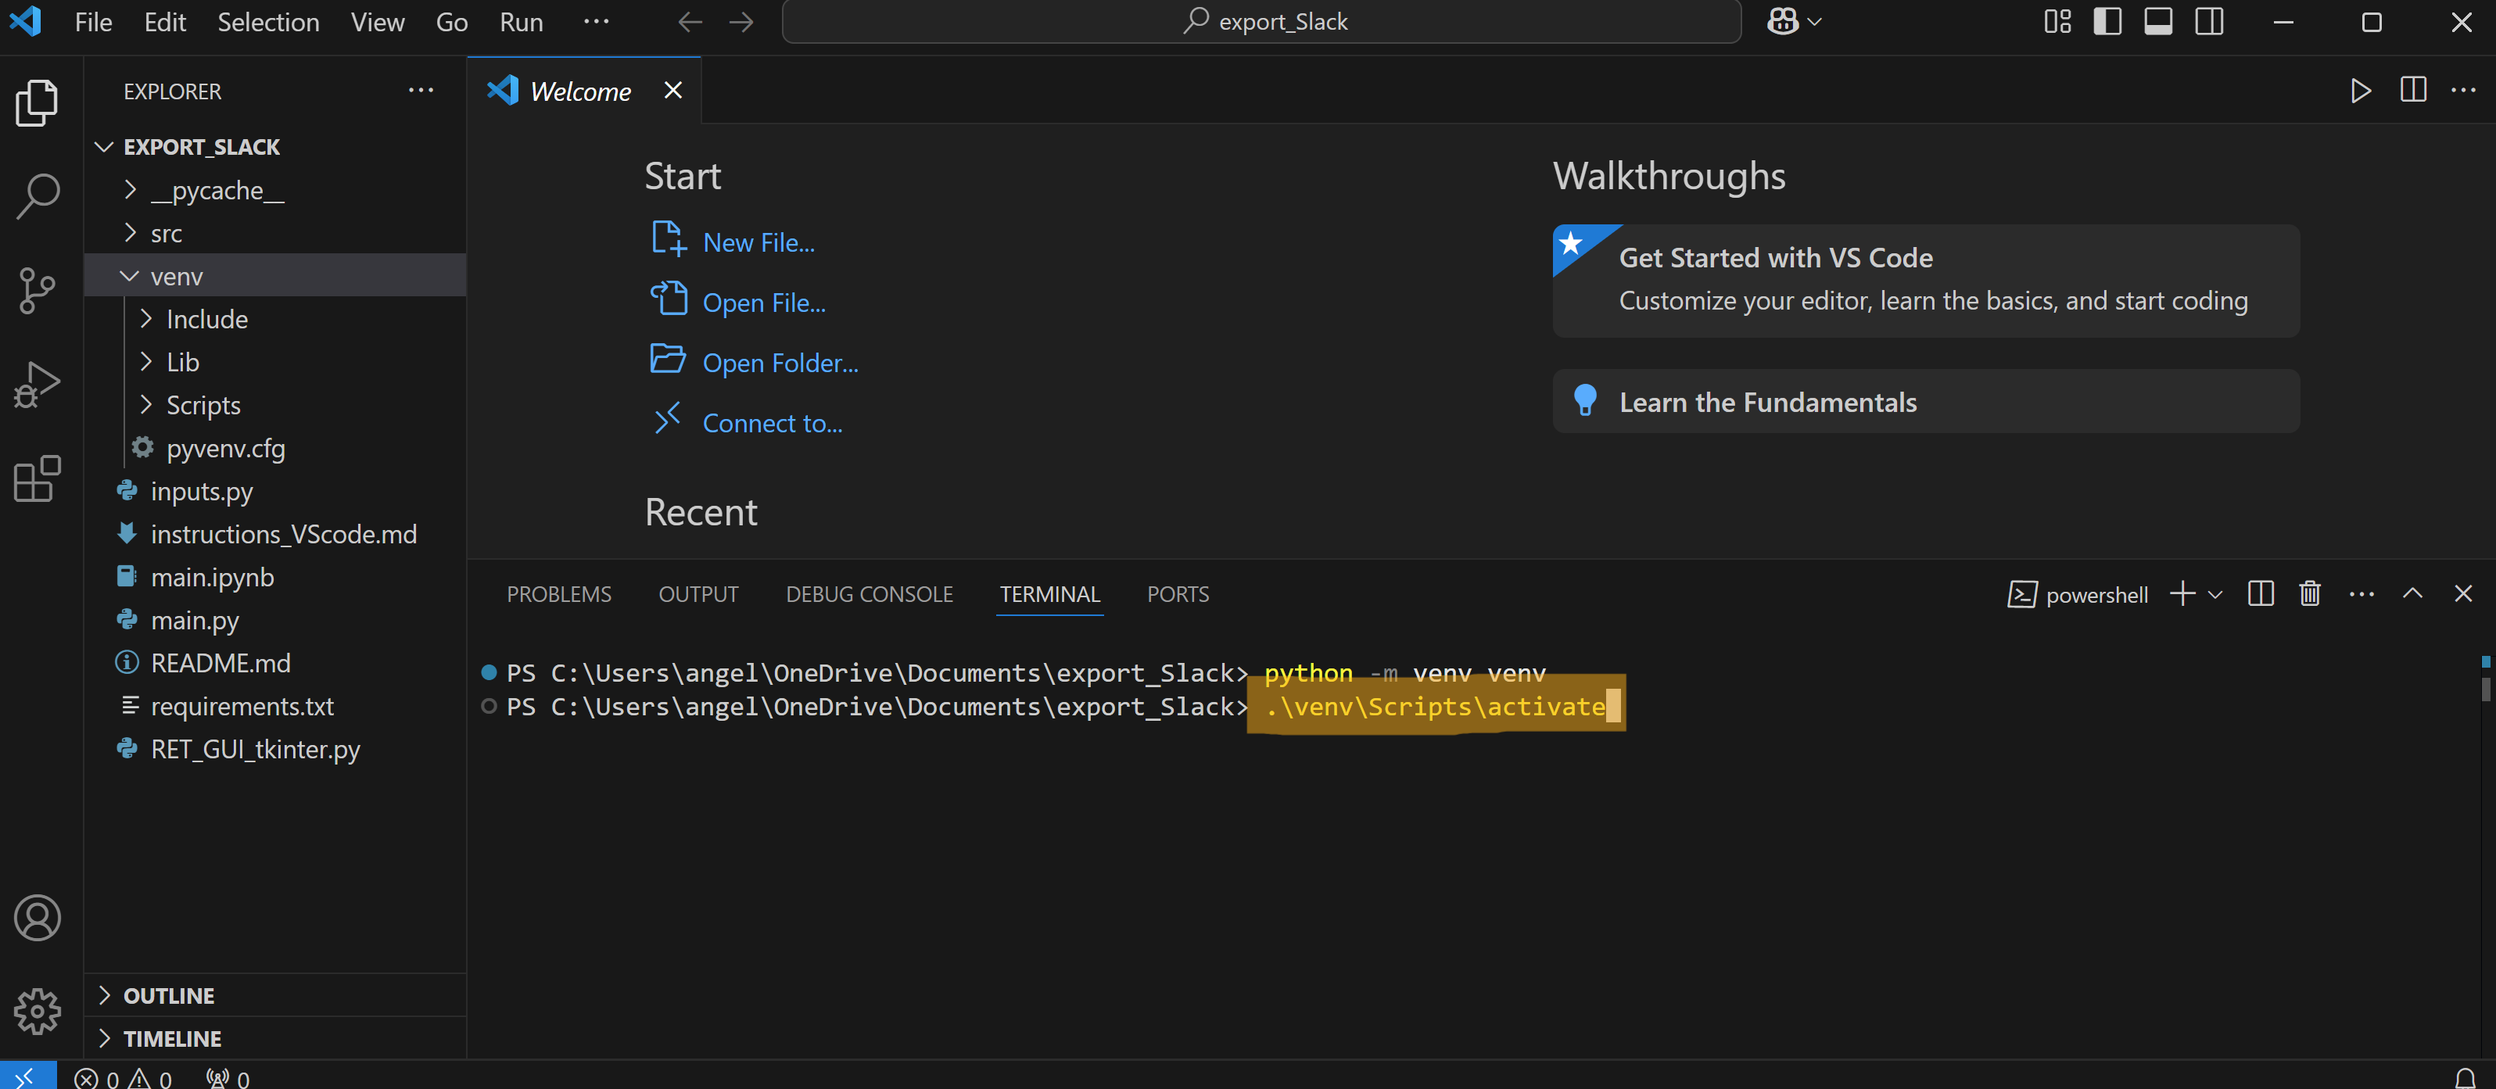
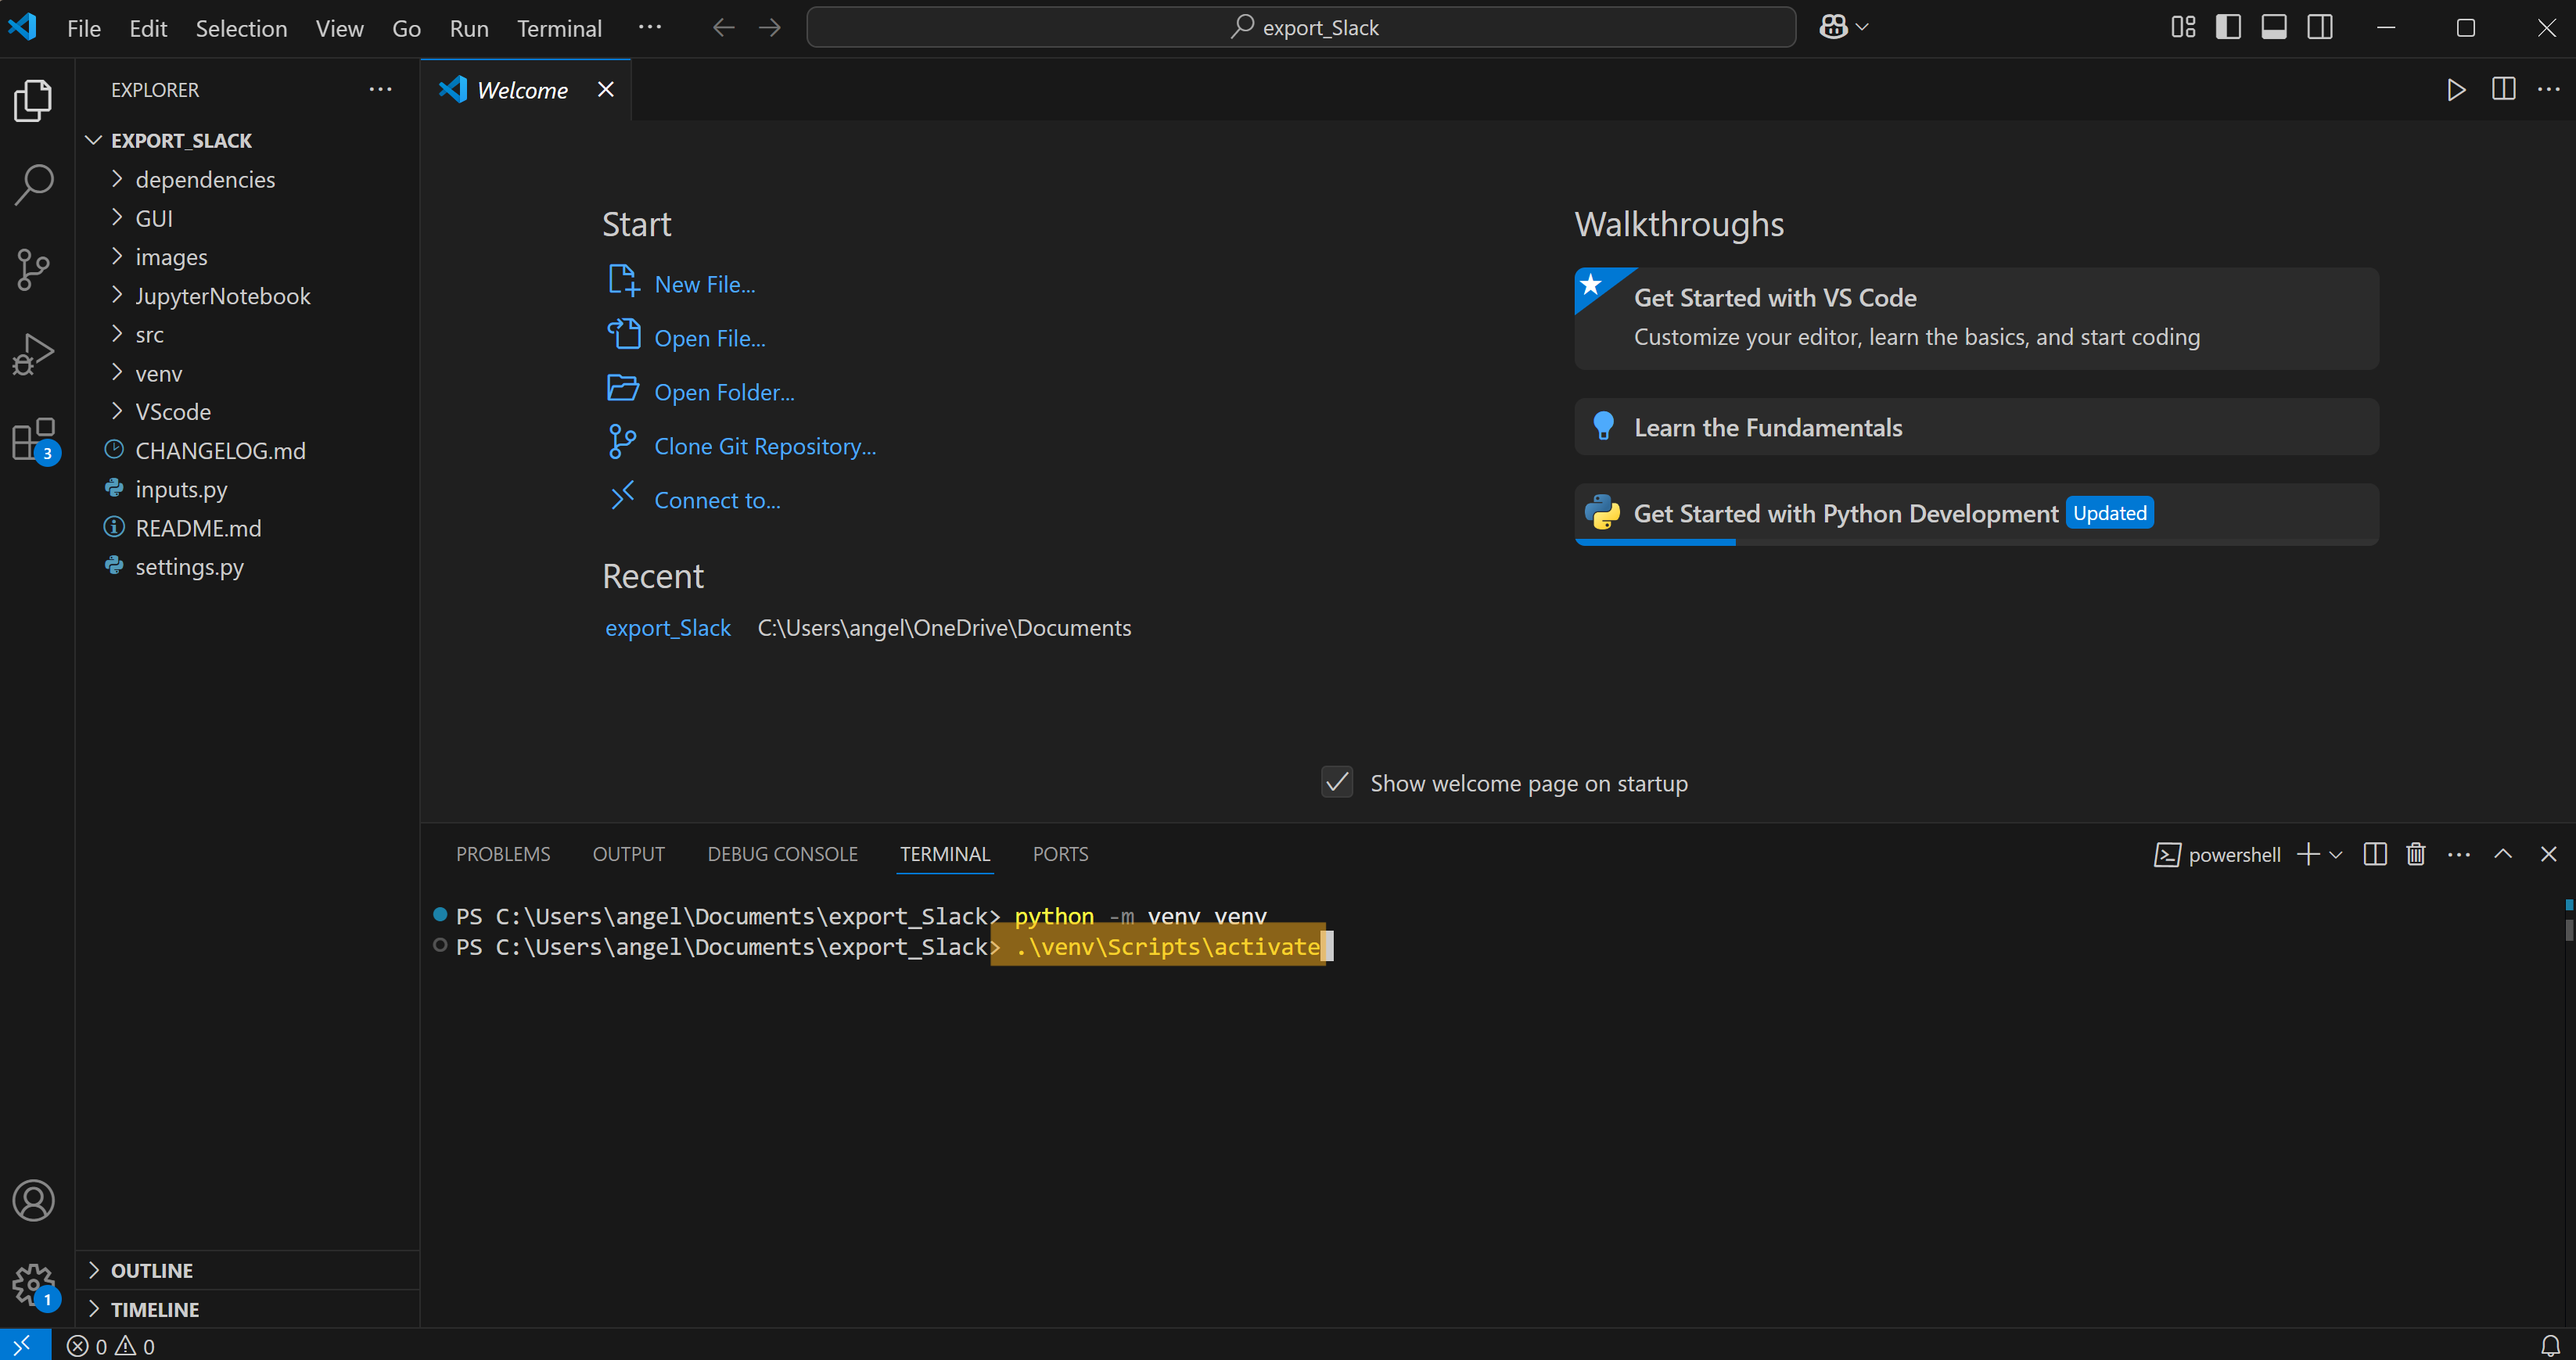
updated vscode documentation

diff --git a/VScode/README.md b/VScode/README.md
@@ -1,19 +1,25 @@
 Here you can find the instructions to set up and use the code export_Slack from Visual Studio Code.
 
 #### To download and open the source code in Visual Studio Code:
-* Visit https://github.com/angelicads93/export_Slack, click on the green button “<>code” and select the option “Download ZIP”.
-* Unzip and save this folder in the directory of your choice. You can rename the folder as “export_Slack”.
+* [Visit the main page of the GitHub repository](https://github.com/angelicads93/export_Slack), click on the green button “<>code” and select the option “Download ZIP”.
+* Unzip and save this folder in the directory of your choice.
 * Open Visual Studio Code.
-* Click on “File” > “Open Folder”.
+* Click on “File” > “Open Folder”. 
 <p align="center">
-  <img src="../images/openFolder.png" alt="Open Folder" style="width:46%"; height:auto>
-  <img src="../images/yesITrust.png" alt="Trust source" style="width:46%"; height:auto>
+  <img src="../images/open.png" alt="Open Folder" style="width:50%"; height:auto>
 </p>
   
-* Navigate through your files and click on the folder “export_Slack” you just downloaded, then click “Select Folder”. You should see “EXPORT_SLACK” in the Explorer tab of your Visual Studio Code interface.
-* You can now open a terminal by clicking “Terminal” > “New Terminal”. We'll need to run a couple of commands from this terminal; make sure your working directory is export_Slack for the rest of the steps.
+* Navigate through your files and click on the folder “export_Slack” you just downloaded, then click “Select Folder”. You may need to give permission for the files to open. After the folder have been opened, you should see “EXPORT_SLACK” in the Explorer tab of your Visual Studio Code interface.
 <p align="center">
-  <img src="../images/Terminal.png" alt="Open terminal" style="width:50%"; height:auto>
+  <img src="../images/agree.png" alt="Agree" style="width:46%"; height:auto>
+  <img src="../images/export_slack.png" alt="folder opened" style="width:46%"; height:auto>
+</p>
+
+
+* Open a terminal by clicking “Terminal” > “New Terminal”. 
+<p align="center">
+  <img src="../images/open_terminal.png" alt="Open terminal" style="width:46%"; height:auto>
+  <img src="../images/show_terminal.png" alt="Show terminal" style="width:46%"; height:auto>
 </p>
     
 #### To create the virtual environment:
@@ -23,7 +29,7 @@ Here you can find the instructions to set up and use the code export_Slack from 
   ```
   Use either "python" or "python3" depending on your Python installation. This should create a new folder called “venv” which you can see in the Explorer tab of your Visual Studio Code interface.
 <p align="center">
-  <img src="../images/pythonVenv.png" alt="Create venv" style="width:50%"; height:auto>
+  <img src="../images/venv.png" alt="Create venv" style="width:50%"; height:auto>
 </p>
 
 * Activate the virtual environment you just created by running in the Terminal,
@@ -33,41 +39,51 @@ Here you can find the instructions to set up and use the code export_Slack from 
   You will see "(venv)" at the beginning of the line with the command prompt, indicating that the you are working on the activated virtual environment venv.
 <p align='center'>
   <img src="../images/activate.png" alt="Activate venv" style="width:46%"; height:auto>
-  <img src="../images/venvActivated.png" alt="venv activated" style="width:46%"; height:auto>
+  <img src="../images/activated.png" alt="venv activated" style="width:46%"; height:auto>
 </p>
 
 * Install the required dependencies in your virtual environment by running in the Terminal,
   ```{script}
-   pip install -r requirements.txt
+   pip install -r .\dependencies\requirements.txt
   ```
    When everything has been installed, you should see in your Terminal a message that says “Successfully installed“ followed by the names of all the dependencies.
 <p align="center">
   <img src="../images/install.png" alt="Install requirements" style="width:46%"; height:auto>
-  <img src="../images/sucess.png" alt="Successful download" style="width:46%"; height:auto>
+  <img src="../images/installed.png" alt="Successful download" style="width:46%"; height:auto>
 </p>
 
 #### To specify the conditions of the analysis:
-* From your explorer tab, open the file called “inputs.py”.
-* Specify the conditions of your choice. Among your inputs, you would need to indicate the absolute path to the directories where the source information is and the absolute path where you wish to save the output of this analysis. If you are working from Windows, you can obtain the absolute path of a directory by first using Windows File Explorer to navigate to the desired folder, right-click on it, select "Copy as path" and paste this absolute path into the corresponding entry of the inputs.py file.
+* From your explorer tab, open the files `inputs.py` and `settings.py`.
+* Specify your choices. Among your inputs, you would need to indicate the absolute path to the directories where the source information is and the absolute path where you wish to save the output of this analysis. If you are working from Windows, you can obtain the absolute path of a directory by first using Windows File Explorer to navigate to the desired folder, right-click on it, select "Copy as path" and paste this absolute path into the corresponding entry of the `inputs.py` file.
 * Save the changes.
 <p align="center">
   <img src="../images/inputs.png" alt="Edit inputs" style="width:50%"; height:auto>
 </p>
 
 #### To run the analysis:
-* From the Terminal, and within the same virtual environment venv, run the command
+* From the terminal, change to the directory VScode with
+```{script}
+cd .\VScode\
+```
+<p align="center">
+  <img src="../images/to_VScode.png" alt="cd to VScode" style="width:46%"; height:auto>
+  <img src="../images/in_VScode.png" alt="in VScode" style="width:46%"; height:auto>
+</p>
+* Execute the analysis with the command
   ```{script}
   python .\main.py
   ```
 <p align="center">
-  <img src="../images/main.png" alt="Execute main" style="width:50%"; height:auto>
+  <img src="../images/main.png" alt="Execute main" style="width:46%"; height:auto>
+  <img src="../images/done.png" alt="Done" style="width:46%"; height:auto>
 </p>
 
-After you have finished using exportSlack, you can deactivate the virtual environment by running the following command in your powershell:
+After you have finished using exportSlack, you can deactivate the virtual environment by running the following command in the terminal,
 ```{script}
 deactivate
 ```
 <p align="center">
-  <img src="../images/deactivate.png" alt="Deactivate" style="width:50%"; height:auto>
+  <img src="../images/deactivate.png" alt="Deactivate" style="width:46% height:auto>
+  <img src="../images/deactivated.png" alt="Deactivated" style="width:46% height:auto>
 </p>
 
